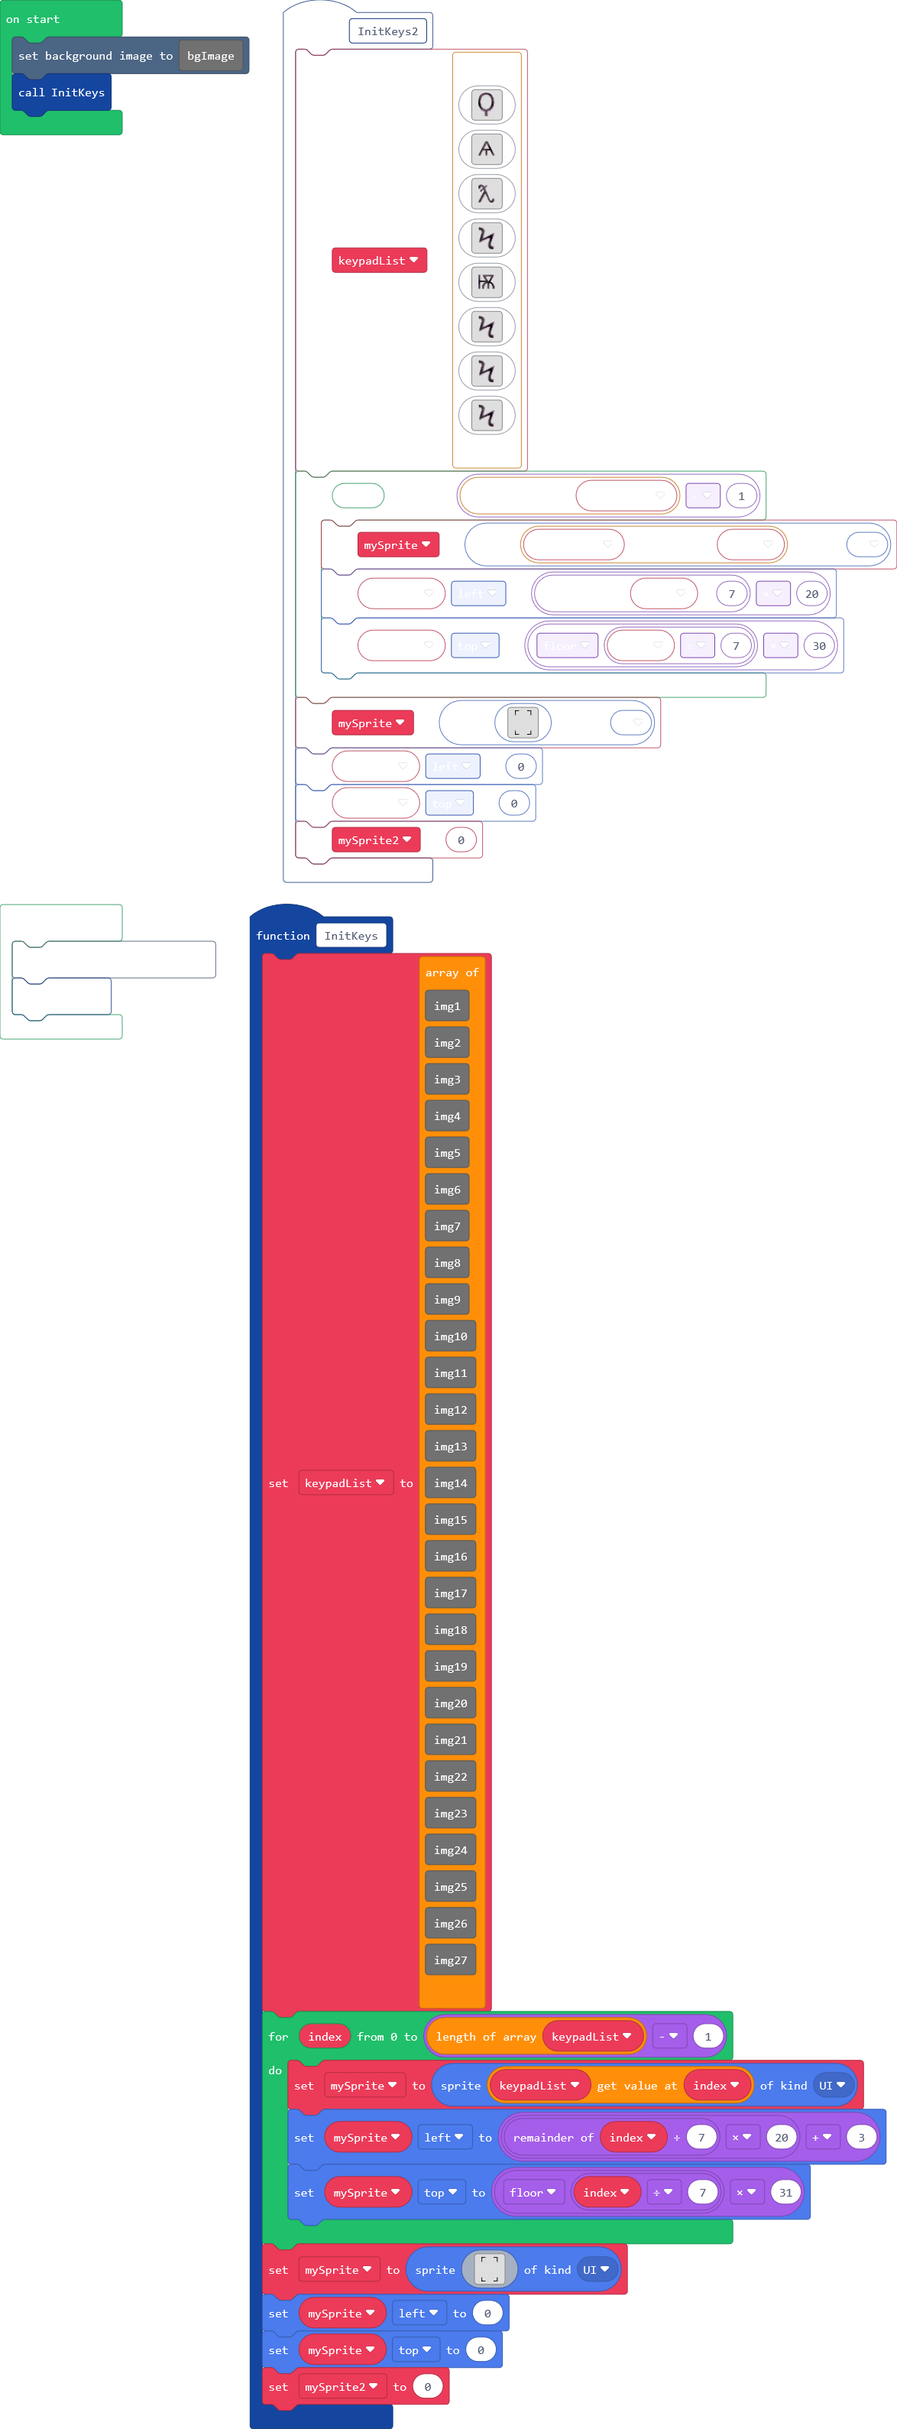
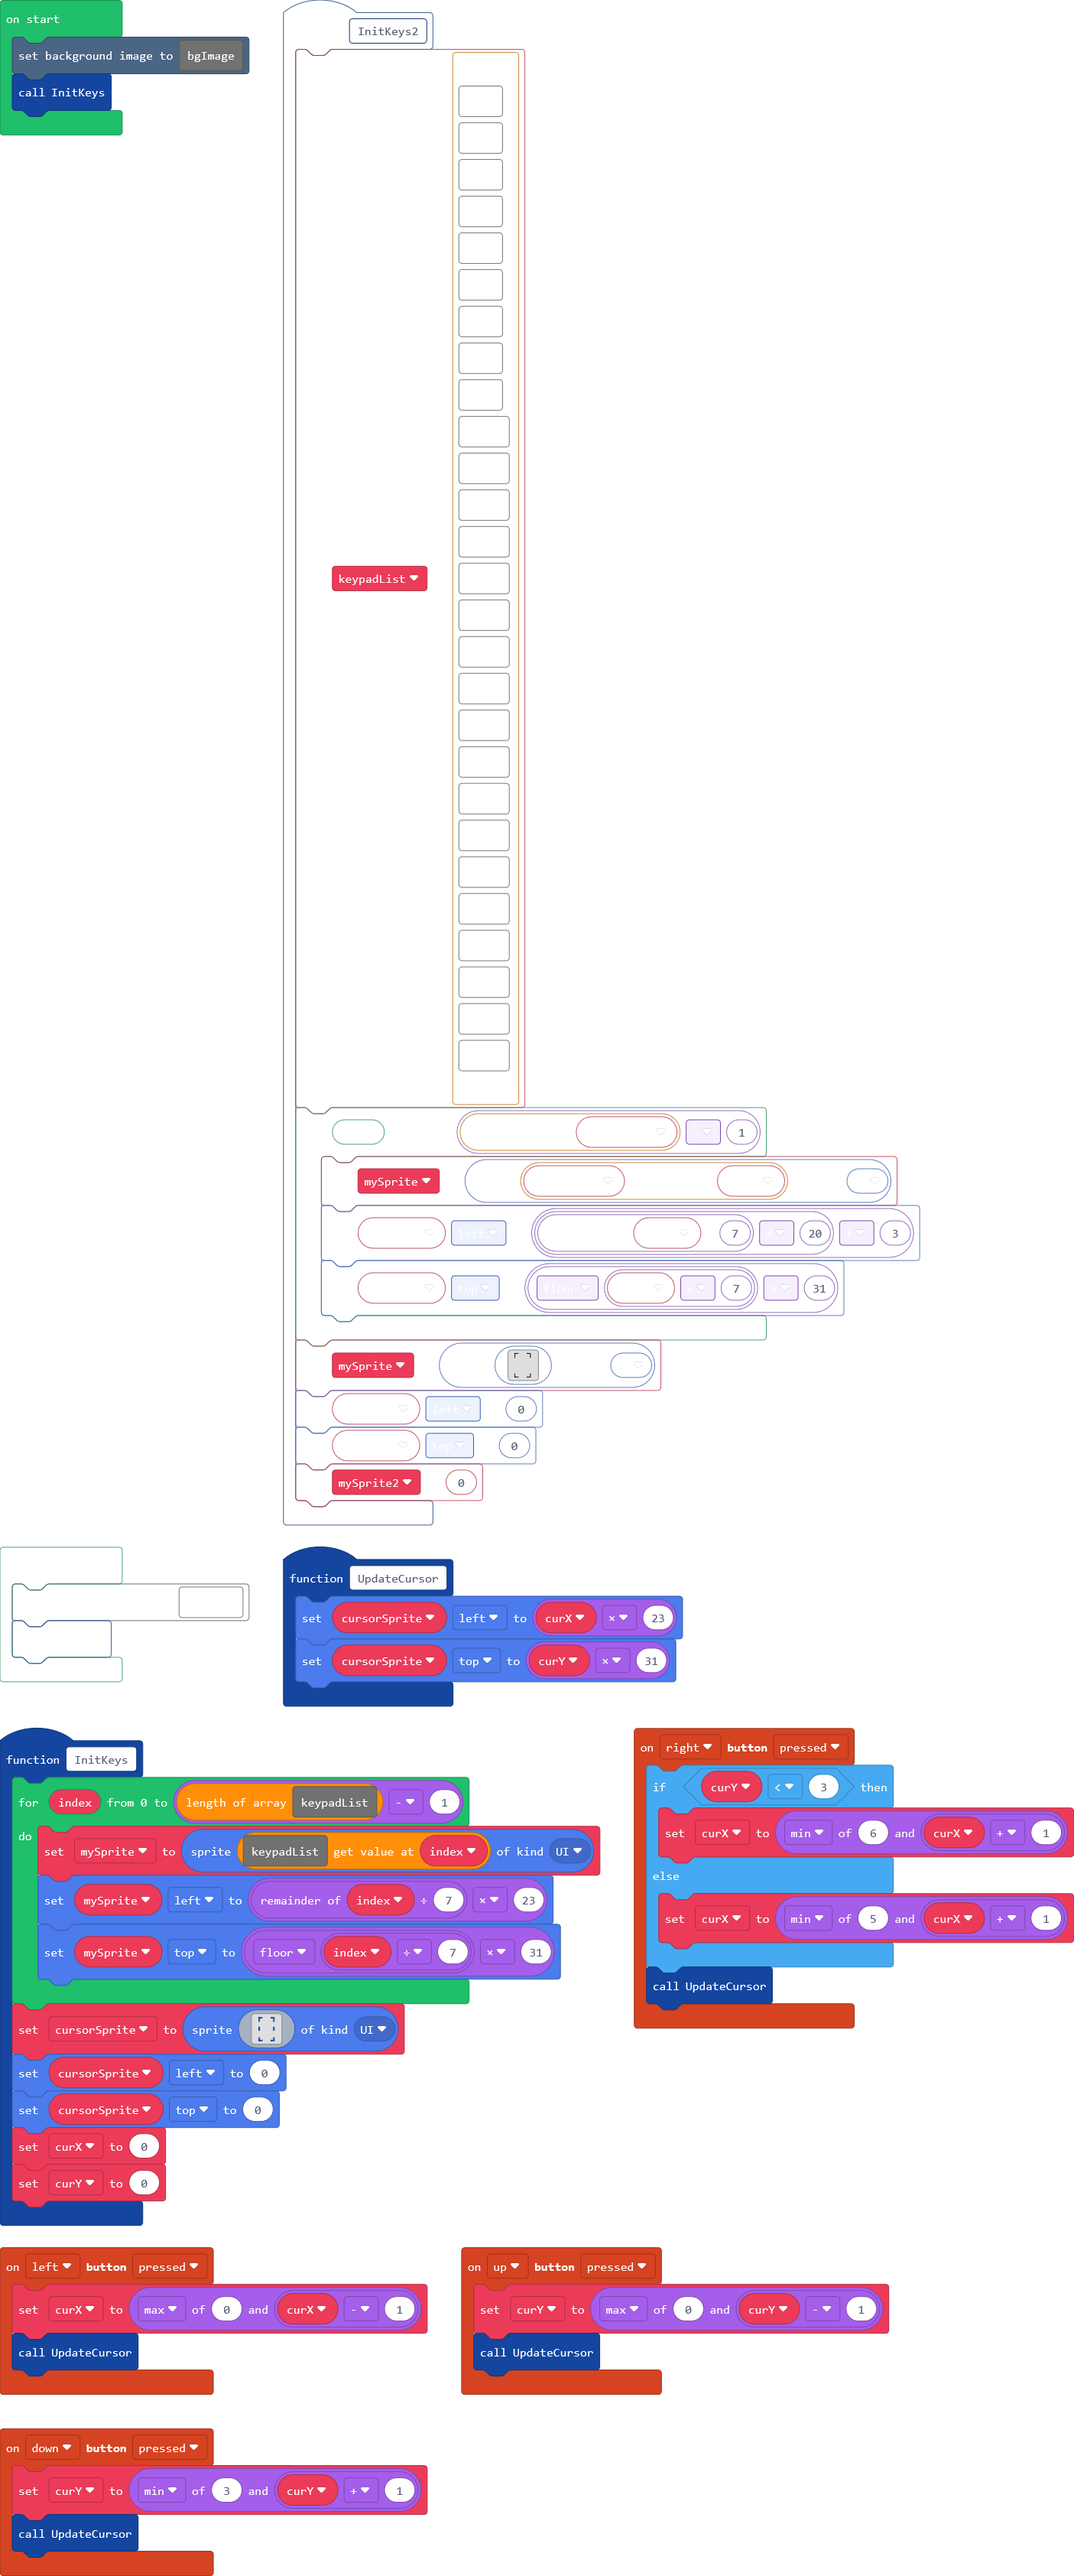
Cursor Working. Moved the images array into a separate file

diff --git a/main.ts b/main.ts
@@ -2,53 +2,78 @@ namespace SpriteKind {
     export const UI = SpriteKind.create()
 }
 function InitKeys () {
-    keypadList = [img1, img2, img3, img4, img5, img6, img7, img8, img9, img10, img11, img12, img13, img14, img15, img16, img17, img18, img19, img20, img21, img22, img23, img24, img25, img26, img27]
     for (let index = 0; index <= keypadList.length - 1; index++) {
         mySprite = sprites.create(keypadList[index], SpriteKind.UI)
         mySprite.left = index % 7 * 23
         mySprite.top = Math.floor(index / 7) * 31
     }
-    mySprite = sprites.create(img`
-        f f f f f . . . . . . . . . . f f f f f
-        f . . . . . . . . . . . . . . . . . . f
-        f . . . . . . . . . . . . . . . . . . f
-        f . . . . . . . . . . . . . . . . . . f
-        f . . . . . . . . . . . . . . . . . . f
-        f . . . . . . . . . . . . . . . . . . f
-        . . . . . . . . . . . . . . . . . . . .
-        . . . . . . . . . . . . . . . . . . . .
-        . . . . . . . . . . . . . . . . . . . .
-        . . . . . . . . . . . . . . . . . . . .
-        . . . . . . . . . . . . . . . . . . . .
-        . . . . . . . . . . . . . . . . . . . .
-        . . . . . . . . . . . . . . . . . . . .
-        . . . . . . . . . . . . . . . . . . . .
-        . . . . . . . . . . . . . . . . . . . .
-        . . . . . . . . . . . . . . . . . . . .
-        . . . . . . . . . . . . . . . . . . . .
-        . . . . . . . . . . . . . . . . . . . .
-        . . . . . . . . . . . . . . . . . . . .
-        . . . . . . . . . . . . . . . . . . . .
-        . . . . . . . . . . . . . . . . . . . .
-        . . . . . . . . . . . . . . . . . . . .
-        . . . . . . . . . . . . . . . . . . . .
-        . . . . . . . . . . . . . . . . . . . .
-        . . . . . . . . . . . . . . . . . . . .
-        f . . . . . . . . . . . . . . . . . . f
-        f . . . . . . . . . . . . . . . . . . f
-        f . . . . . . . . . . . . . . . . . . f
-        f . . . . . . . . . . . . . . . . . . f
-        f f f f f . . . . . . . . . . f f f f f
-    `, SpriteKind.UI)
-    mySprite.left = 0
-    mySprite.top = 0
-    mySprite2 = 0
+    cursorSprite = sprites.create(img`
+8 8 8 8 8 . . . . . . . . . . 8 8 8 8 8 
+8 8 8 8 8 . . . . . . . . . . 8 8 8 8 8 
+8 8 . . . . . . . . . . . . . . . . 8 8 
+8 8 . . . . . . . . . . . . . . . . 8 8 
+8 8 . . . . . . . . . . . . . . . . 8 8 
+8 8 . . . . . . . . . . . . . . . . 8 8 
+. . . . . . . . . . . . . . . . . . . . 
+. . . . . . . . . . . . . . . . . . . . 
+. . . . . . . . . . . . . . . . . . . . 
+. . . . . . . . . . . . . . . . . . . . 
+. . . . . . . . . . . . . . . . . . . . 
+. . . . . . . . . . . . . . . . . . . . 
+8 8 . . . . . . . . . . . . . . . . 8 8 
+8 8 . . . . . . . . . . . . . . . . 8 8 
+8 8 . . . . . . . . . . . . . . . . 8 8 
+8 8 . . . . . . . . . . . . . . . . 8 8 
+8 8 . . . . . . . . . . . . . . . . 8 8 
+. . . . . . . . . . . . . . . . . . . . 
+. . . . . . . . . . . . . . . . . . . . 
+. . . . . . . . . . . . . . . . . . . . 
+. . . . . . . . . . . . . . . . . . . . 
+. . . . . . . . . . . . . . . . . . . . 
+. . . . . . . . . . . . . . . . . . . . 
+. . . . . . . . . . . . . . . . . . . . 
+. . . . . . . . . . . . . . . . . . . . 
+8 8 . . . . . . . . . . . . . . . . 8 8 
+8 8 . . . . . . . . . . . . . . . . 8 8 
+8 8 . . . . . . . . . . . . . . . . 8 8 
+8 8 8 8 8 . . . . . . . . . . 8 8 8 8 8 
+8 8 8 8 8 . . . . . . . . . . 8 8 8 8 8 
+`, SpriteKind.UI)
+    cursorSprite.left = 0
+    cursorSprite.top = 0
+    curX = 0
+    curY = 0
 }
+function UpdateCursor () {
+    cursorSprite.left = curX * 23
+    cursorSprite.top = curY * 31
+}
+controller.left.onEvent(ControllerButtonEvent.Pressed, function () {
+    curX = Math.max(0, curX - 1)
+    UpdateCursor()
+})
+controller.down.onEvent(ControllerButtonEvent.Pressed, function () {
+    curY = Math.min(3, curY + 1)
+    UpdateCursor()
+})
 sprites.onCreated(SpriteKind.UI, function (sprite) {
     sprite.setFlag(SpriteFlag.Ghost, true)
 })
-let mySprite2 = 0
+controller.right.onEvent(ControllerButtonEvent.Pressed, function () {
+    if (curY < 3) {
+        curX = Math.min(6, curX + 1)
+    } else {
+        curX = Math.min(5, curX + 1)
+    }
+    UpdateCursor()
+})
+controller.up.onEvent(ControllerButtonEvent.Pressed, function () {
+    curY = Math.max(0, curY - 1)
+    UpdateCursor()
+})
+let curY = 0
+let curX = 0
+let cursorSprite: Sprite = null
 let mySprite: Sprite = null
-let keypadList: Image[] = []
 scene.setBackgroundImage(bgImage)
 InitKeys()

diff --git a/symbols.ts b/symbols.ts
@@ -1017,3 +1017,5 @@ bgImage.drawLine(90, 0, 90, 120, 15)
 bgImage.drawLine(113, 0, 113, 120, 15)
 bgImage.drawLine(136, 0, 136, 120, 15)
 
+let keypadList: Image[] = []
+keypadList = [img1, img2, img3, img4, img5, img6, img7, img8, img9, img10, img11, img12, img13, img14, img15, img16, img17, img18, img19, img20, img21, img22, img23, img24, img25, img26, img27]
